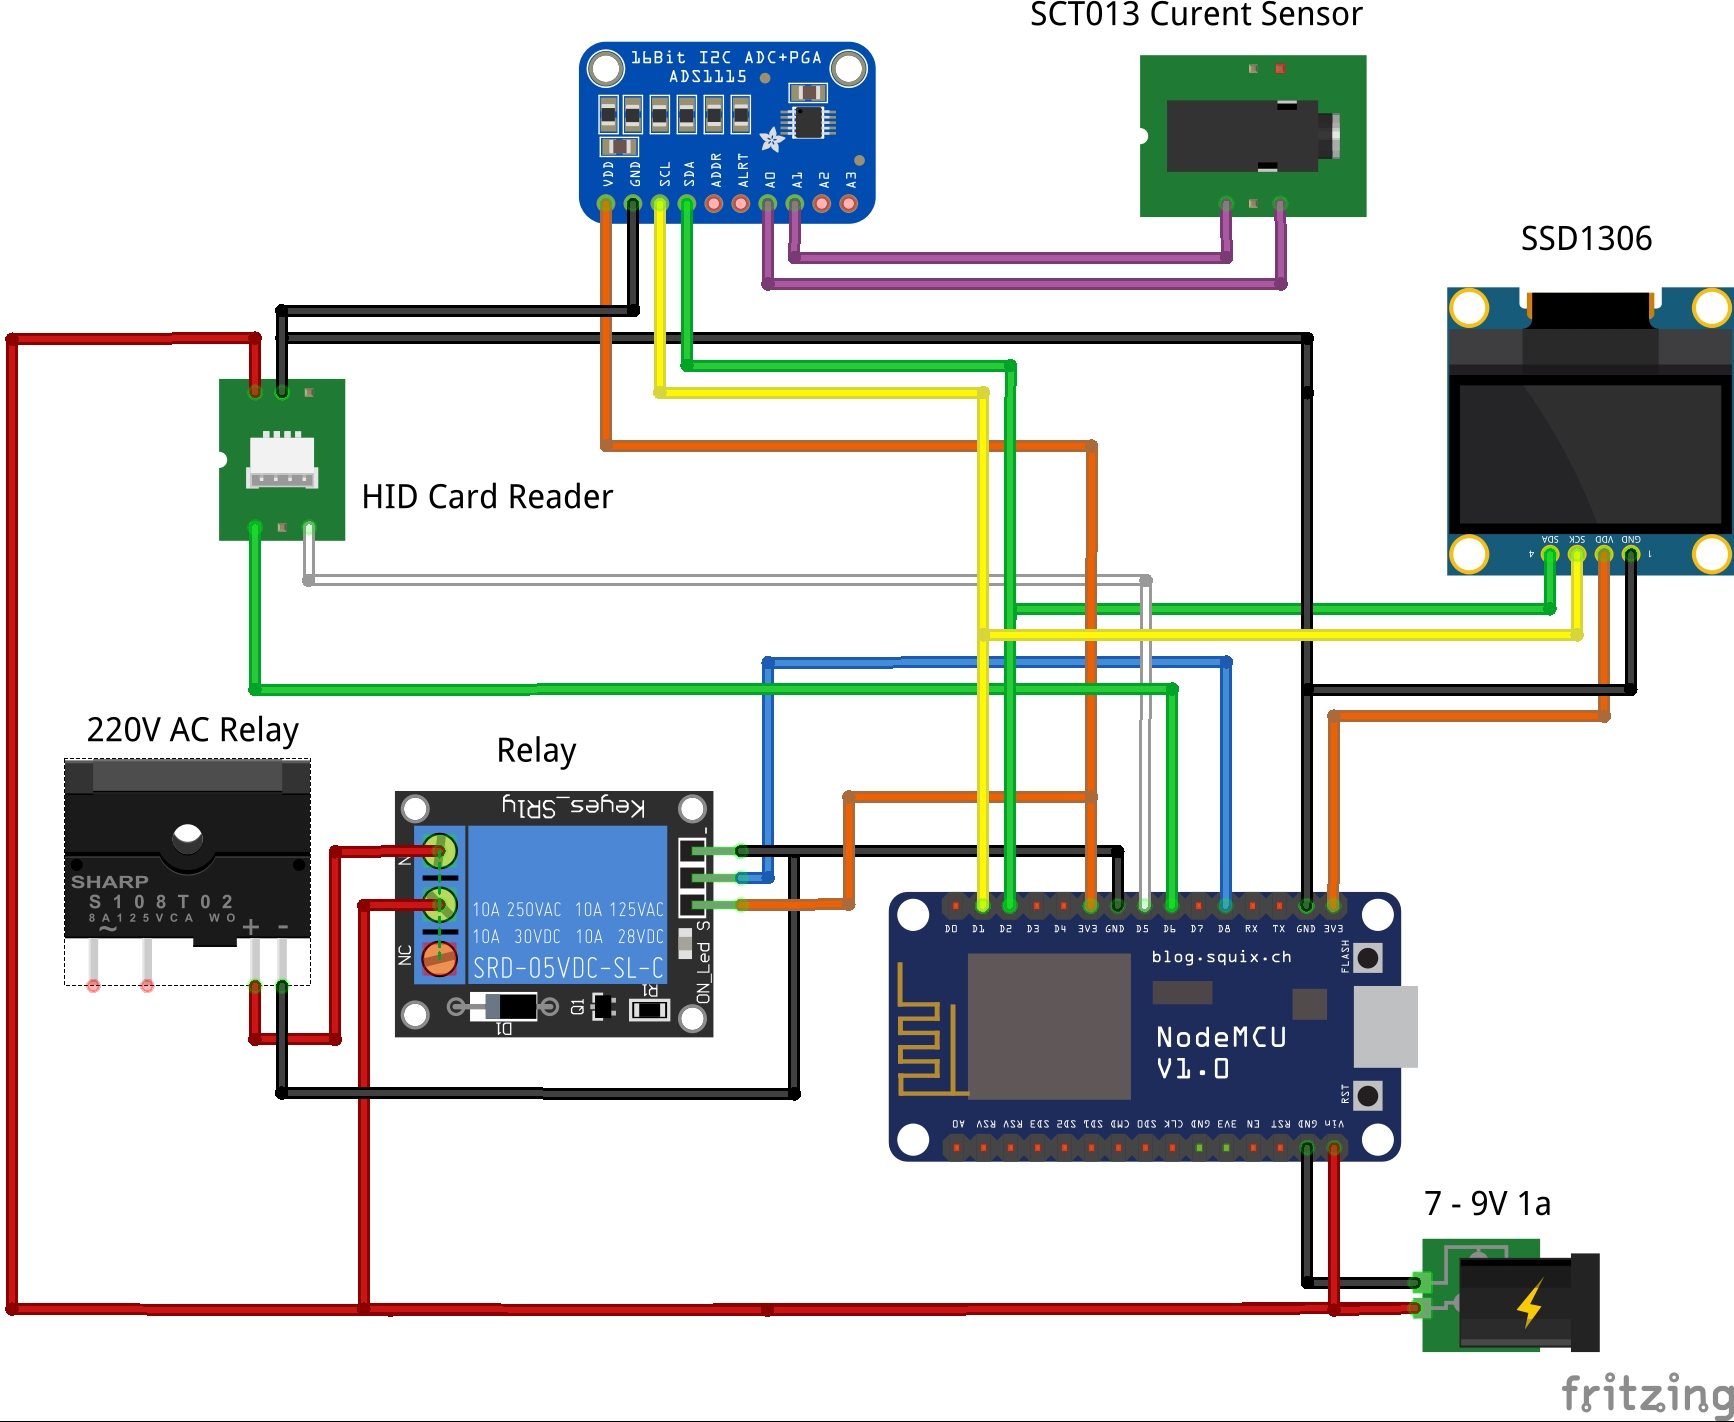
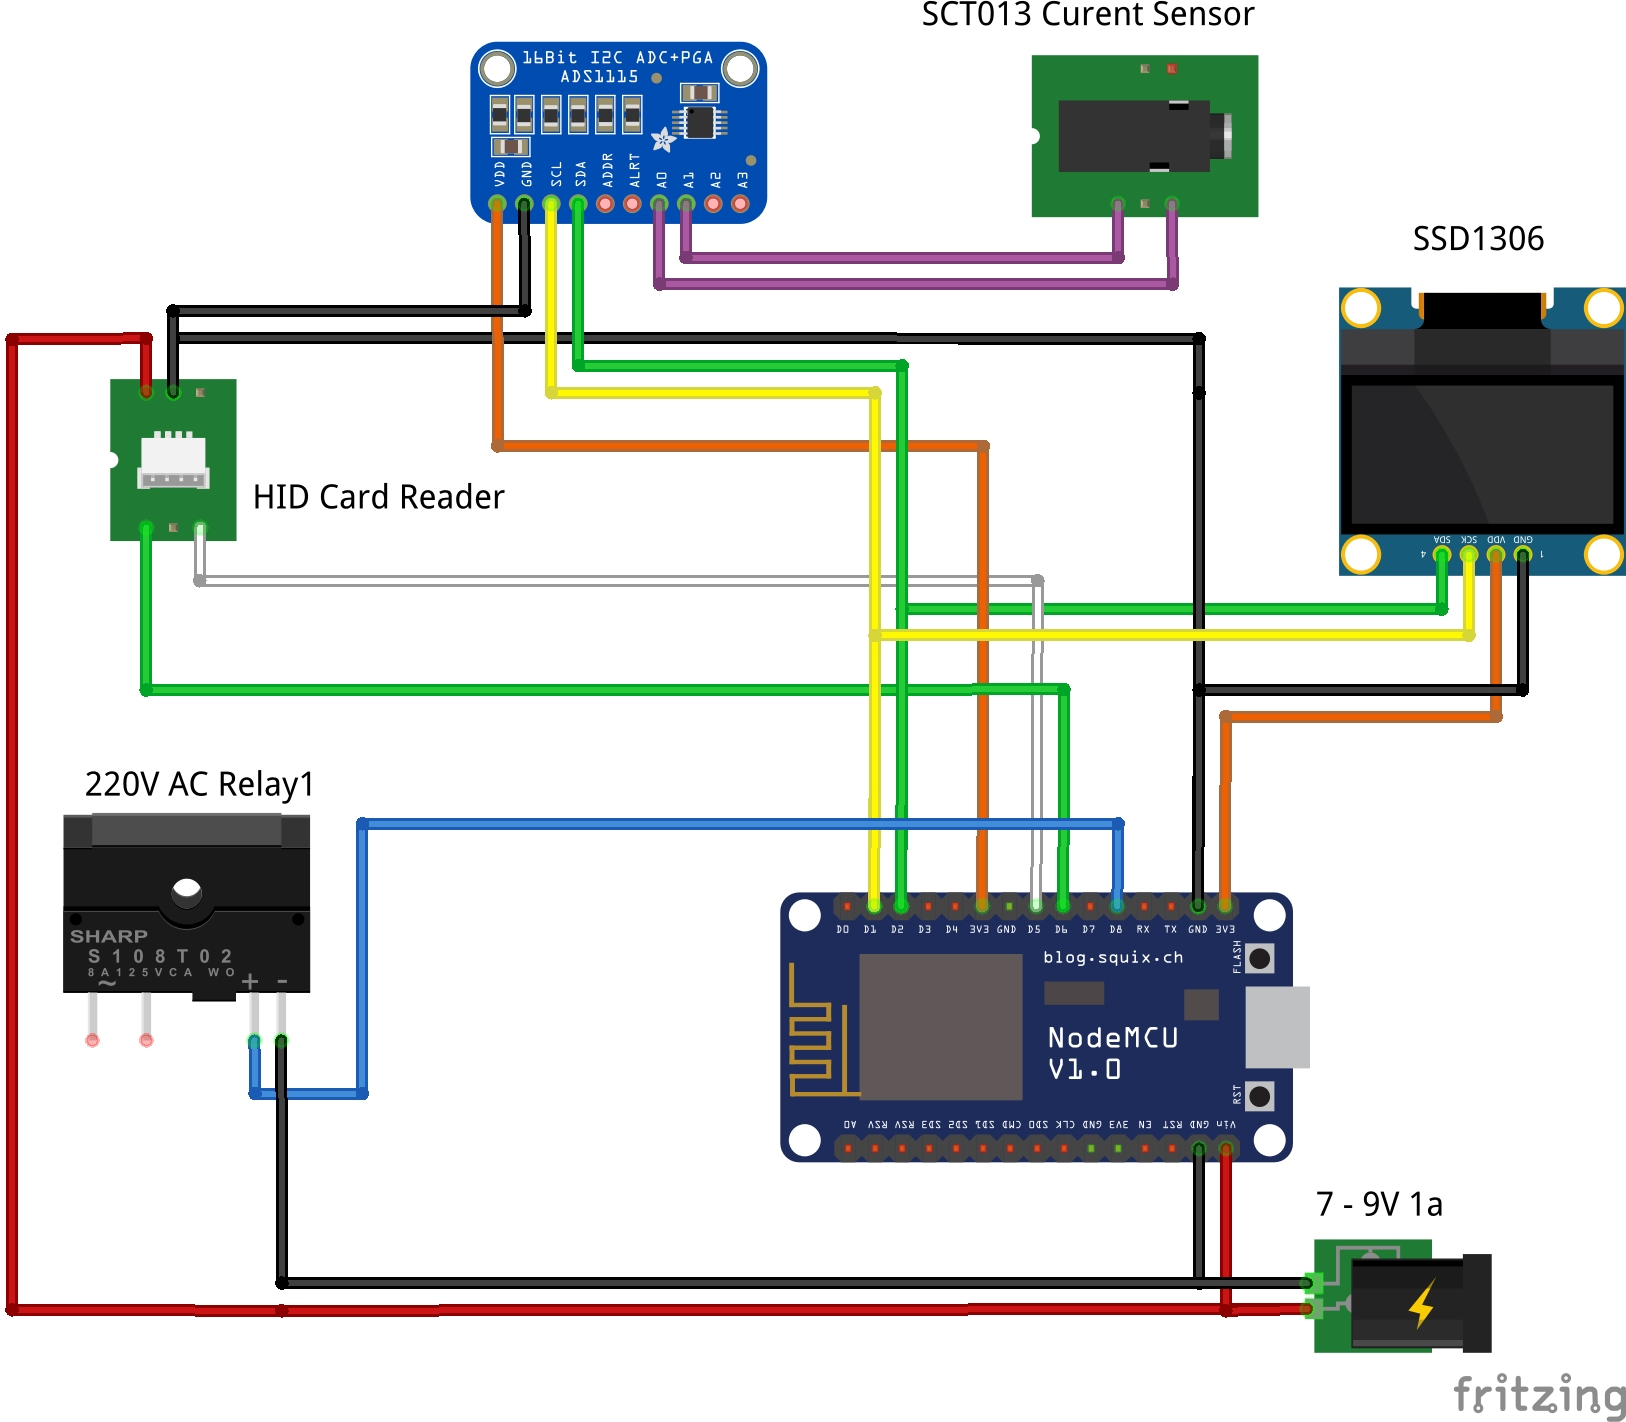
Added parts list

Changed region(s): [[0.0308, 0.0, 1.0, 1.0], [0.0, 0.8973, 0.0615, 0.9283], [0.9533, 0.1857, 0.984, 0.2166]]

diff --git a/rfid_platform_io/src/main.cpp b/rfid_platform_io/src/main.cpp
@@ -2,6 +2,7 @@
 #include "rfid_reader.h"
 #include "backoff.h"
 #include "display.h"
+#include "current.h"
 #include <ESP8266WiFi.h>
 #include <ESP8266HTTPClient.h>
 #include <WiFiManager.h>
@@ -10,6 +11,7 @@ WiFiManager wifiManager;
 RfidReader rfidReader;
 BackoffTimer backoff;
 Display display;
+CurrentSensor currentSensor;
 
 #define RELAY_PIN D0
 
@@ -91,6 +93,9 @@ void webhook(){
 void unlockLoop(){
   backoff.reset();
   backoff.setDelay();
+  if(currentSensor.getCurrentInAmps() > 1.0){
+    lockAtTime = millis() + TIME_TO_LOCK;
+  }
   int timeLeft = (lockAtTime - millis()) / 1000;
   if(timeLeft > 0){
     relayOn();

diff --git a/rfid_platform_io/src/current.cpp b/rfid_platform_io/src/current.cpp
@@ -1,0 +1,9 @@
+#include "current.h"
+
+CurrentSensor::CurrentSensor() {
+
+}
+
+float CurrentSensor::getCurrentInAmps() {
+  return 1.0;
+}

diff --git a/rfid_platform_io/src/current.h b/rfid_platform_io/src/current.h
@@ -1,0 +1,5 @@
+class CurrentSensor {
+  public:
+    CurrentSensor();
+    float getCurrentInAmps();
+};

diff --git a/README.md b/README.md
@@ -1,1 +1,11 @@
 ![](parts.jpg)
+## Parts list
+- [nodemcu (esp8266)](https://amz.run/3Mu4)
+- [0.96" oled display](https://amz.run/3Mu5)
+- [SCT-013 AC Current Sensor](https://amz.run/3Mu6)
+- [ADS1115 I2c ADC](https://amz.run/3Mu9)
+- [RFID card Reader](https://amz.run/3MuC)
+- [ABS Project Box](https://amz.run/3Mu7)
+- [3.5mm PCM mount Jacks](https://amz.run/3MuA)
+- 220V to 7-10v 1 amp power supply (Needed)
+- PCB and wires and terminals
